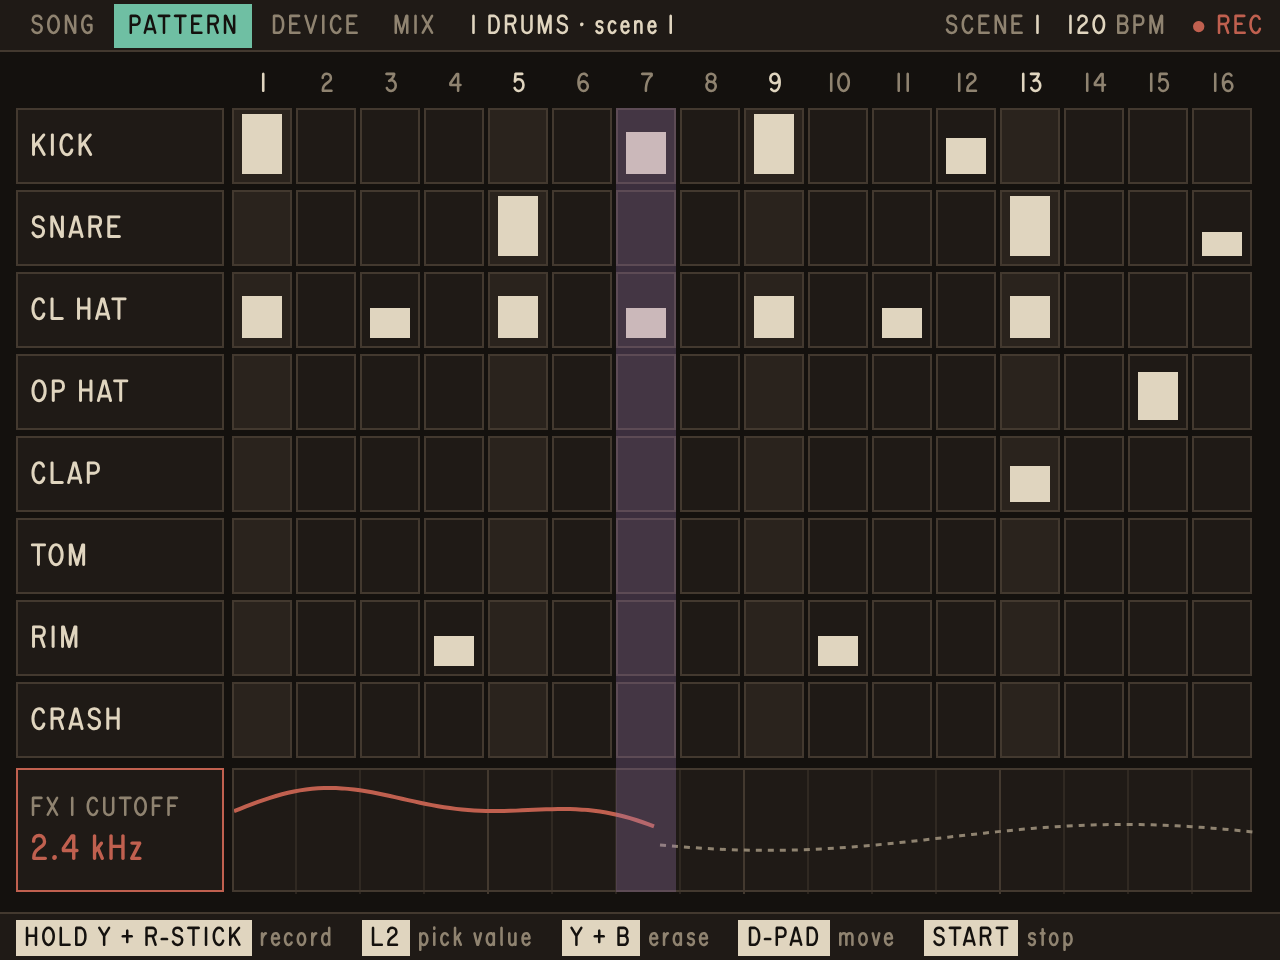
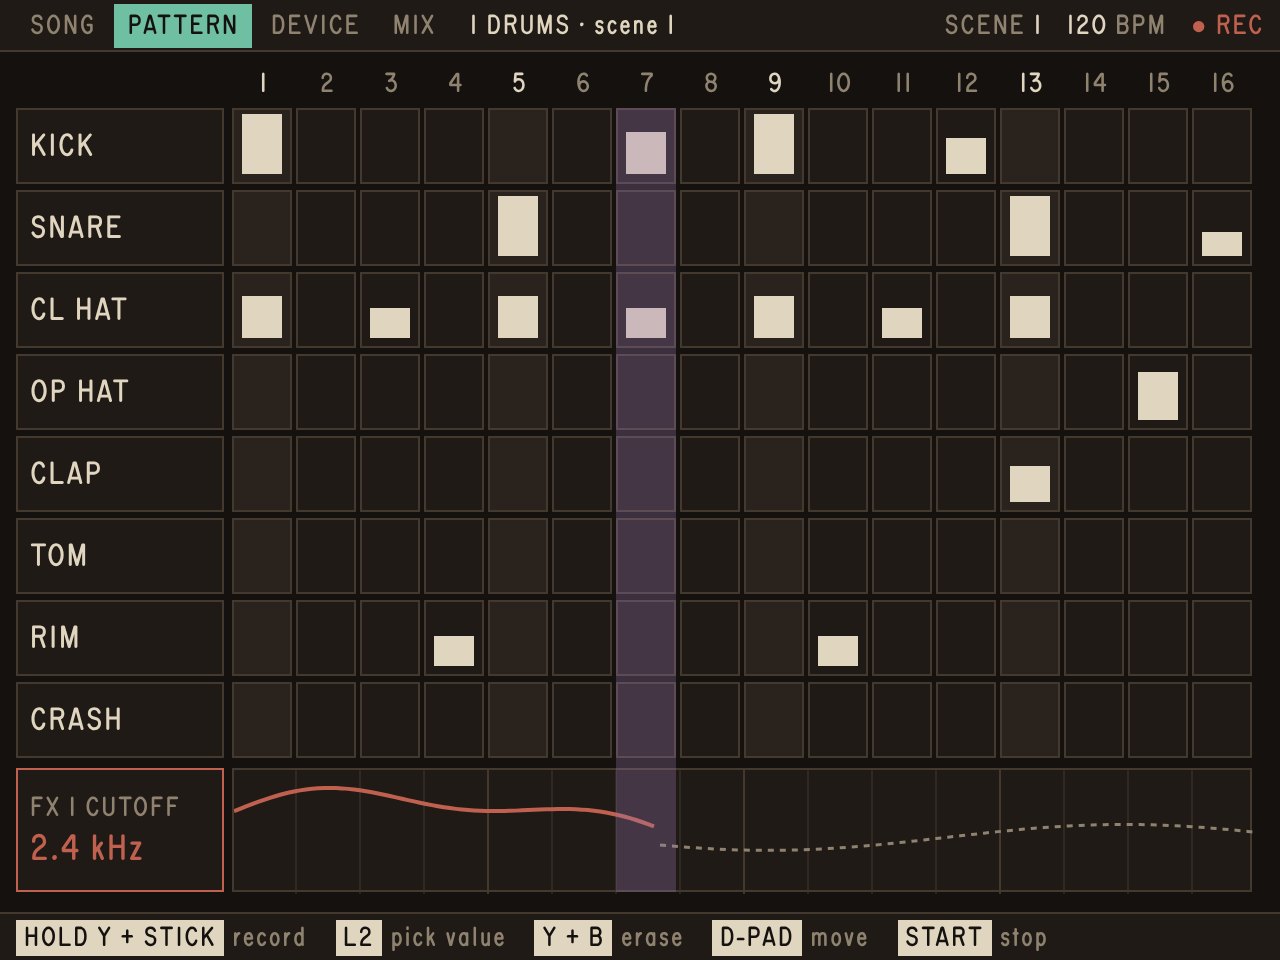
Name the one stick in the README and the mockups
Claude-Session: https://claude.ai/code/session_014Mv6qbu5BCdfvxNNbdbNqL

Changed region(s): [[0.125, 0.9375, 0.8438, 1.0]]

diff --git a/docs/screens/screens.html b/docs/screens/screens.html
@@ -152,9 +152,9 @@ songScreen('2-song-full', ['DRUMS', 'BASS', 'CHOP', 'KEYS', 'PAD', 'VOX', 'PERC'
 function patternScreen(id, auto) {
   const s = auto
     ? chrome(id, 'PATTERN', '1 DRUMS &middot; scene 1',
-             [['HOLD Y + R-STICK', 'record'], ['L2', 'pick value'], ['Y + B', 'erase'], ['D-PAD', 'move'], ['START', 'stop']], true)
+             [['HOLD Y + STICK', 'record'], ['L2', 'pick value'], ['Y + B', 'erase'], ['D-PAD', 'move'], ['START', 'stop']], true)
     : chrome(id, 'PATTERN', '1 DRUMS &middot; scene 1',
-             [['D-PAD', 'move'], ['A', 'place'], ['B', 'delete'], ['A+D-PAD', 'velocity'], ['R-STICK', 'value'], ['L1 R1', 'track']]);
+             [['D-PAD', 'move'], ['A', 'place'], ['B', 'delete'], ['A+D-PAD', 'velocity'], ['STICK', 'value'], ['L1 R1', 'track']]);
   const lanes = ['KICK', 'SNARE', 'CL HAT', 'OP HAT', 'CLAP', 'TOM', 'RIM', 'CRASH'];
   const hits = {
     0: { 0: 1, 6: .7, 8: 1, 11: .6 }, 1: { 4: 1, 12: 1, 15: .4 },
@@ -213,7 +213,7 @@ patternScreen('9-record-automation', true);
 // ---- device: one drum lane is a small sampler --------------------------------
 (function () {
   const s = chrome('4-device-drums', 'DEVICE', '1 DRUMS &middot; SNARE',
-                   [['D-PAD', 'move'], ['A+D-PAD', 'change'], ['R-STICK', 'value'], ['A', 'load sample'], ['X', 'hear it'], ['L2', 'zoom']]);
+                   [['D-PAD', 'move'], ['A+D-PAD', 'change'], ['STICK', 'value'], ['A', 'load sample'], ['X', 'hear it'], ['L2', 'zoom']]);
   const lanes = ['KICK', 'SNARE', 'CL HAT', 'OP HAT', 'CLAP', 'TOM', 'RIM', 'CRASH'];
   lanes.forEach((name, r) =>
     el(s, 'lane' + (r === 1 ? ' on' : ''), { top: px(36 + r * 31), height: px(28), width: px(96), fontSize: px(12),
@@ -271,7 +271,7 @@ patternScreen('9-record-automation', true);
 // ---- mix: level, pan, two effect slots ---------------------------------------
 (function () {
   const s = chrome('5-mix', 'MIX', '1 DRUMS',
-                   [['D-PAD', 'move'], ['A+D-PAD', 'change'], ['R-STICK', 'value'], ['A', 'choose effect'], ['B', 'bypass'], ['L1 R1', 'track']]);
+                   [['D-PAD', 'move'], ['A+D-PAD', 'change'], ['STICK', 'value'], ['A', 'choose effect'], ['B', 'bypass'], ['L1 R1', 'track']]);
   // Track list with meters.
   const rows = [['1 DRUMS', .72, true], ['MASTER', .64, false]];
   el(s, 'title', { left: px(8), top: px(36) }, 'TRACKS');

diff --git a/README.md b/README.md
@@ -30,26 +30,39 @@ RG40XXV's own buttons, named as printed on it. The keyboard is only a
 stand-in for testing at a desk: each key presses one handheld button, so the
 keyboard can do nothing the handheld cannot.
 
-The Pattern screen has one rule, so there is nothing to memorise:
+**The handheld has one stick.** It does two jobs, and which one depends only
+on whether a button is held:
 
-| Handheld | Does |
+| Held | The stick |
 | --- | --- |
-| D-pad or left stick | Move the cursor. Hold either and it runs |
-| A | Act on what is under the cursor |
-| Hold A + right stick | Turn what is under the cursor. It fills or drains |
-| Hold A + D-pad up / down | The same, in exact steps |
-| B | Remove what is under the cursor |
+| Nothing | Moves the cursor (so does the D-pad). Hold it and it runs |
+| A | Shapes what is under the cursor |
+| Y | Sets how likely it is to play |
+
+On a step, that is three pictures of one block:
+
+| Gesture | Sets | The block |
+| --- | --- | --- |
+| Hold A, stick up / down | Level | Fills or drains |
+| Hold A, stick left / right | Nudge, up to half a step | Slides early or late |
+| Hold Y, stick up / down | Chance | Fades toward a ghost |
+
+The stick does one of those per push: whichever way it leaves the centre is
+the job until it comes back.
+
+| Tap | Does |
+| --- | --- |
+| A | Place a hit |
+| Y | Place a "maybe" hit (50%). On a hit: chance 100 > 75 > 50 > 25 |
+| B | Delete the hit |
 | X | Hear the lane |
 | START | Play / stop |
 | SELECT + START | Quit |
 
-The cursor can sit on three kinds of thing:
-
-| Under the cursor | A | Hold A + right stick |
-| --- | --- | --- |
-| A step | Places a hit | That hit's level |
-| A lane's name (left of step 1) | Plays the drum | That drum's volume |
-| The tempo (up from the top lane) | | The tempo |
+The cursor can also sit on a lane's name, left of step 1 (A plays the drum,
+hold A + stick is that drum's volume), and on the tempo, up from the top
+lane (hold A + stick). With A or Y held, the D-pad sets the same values in
+exact steps.
 
 How fast everything moves is set in one place, `Feel` in
 `app/pattern_screen.hpp`.
@@ -63,8 +76,7 @@ Keyboard stand-ins:
 | B | Z | | START | Return |
 | X | S | | SELECT | Backspace |
 | Y | A | | MENU | Tab |
-| Right stick | I J K L | | (quit, desk only) | Esc |
-| Left stick | T F G H | | | |
+| The stick | I J K L | | (quit, desk only) | Esc |
 
 The button code lives in `app/input.hpp`. Nothing else in the app may read a
 key or a gamepad button directly.
@@ -108,8 +120,8 @@ scripts/  the handheld build and the port launcher.
   printing inside `Engine::render()` or any `Effect::process()`.
 - **The screen thread talks to the engine only through `Engine::send()`.**
 - **The engine never includes SDL.**
-- **One button and a stick, not a combination.** New controls follow the
-  rule on the Pattern screen: move, A acts, hold A and turn, B removes.
+- **One button and the stick, not a combination.** New controls follow the
+  rule on the Pattern screen: the stick moves; hold a button and it shapes.
 - **Fast.** Held input runs quickly. Nobody has asked for slower.
 - **Handheld first.** A feature is designed on the handheld's buttons. A
   keyboard key only ever stands in for one of them.
